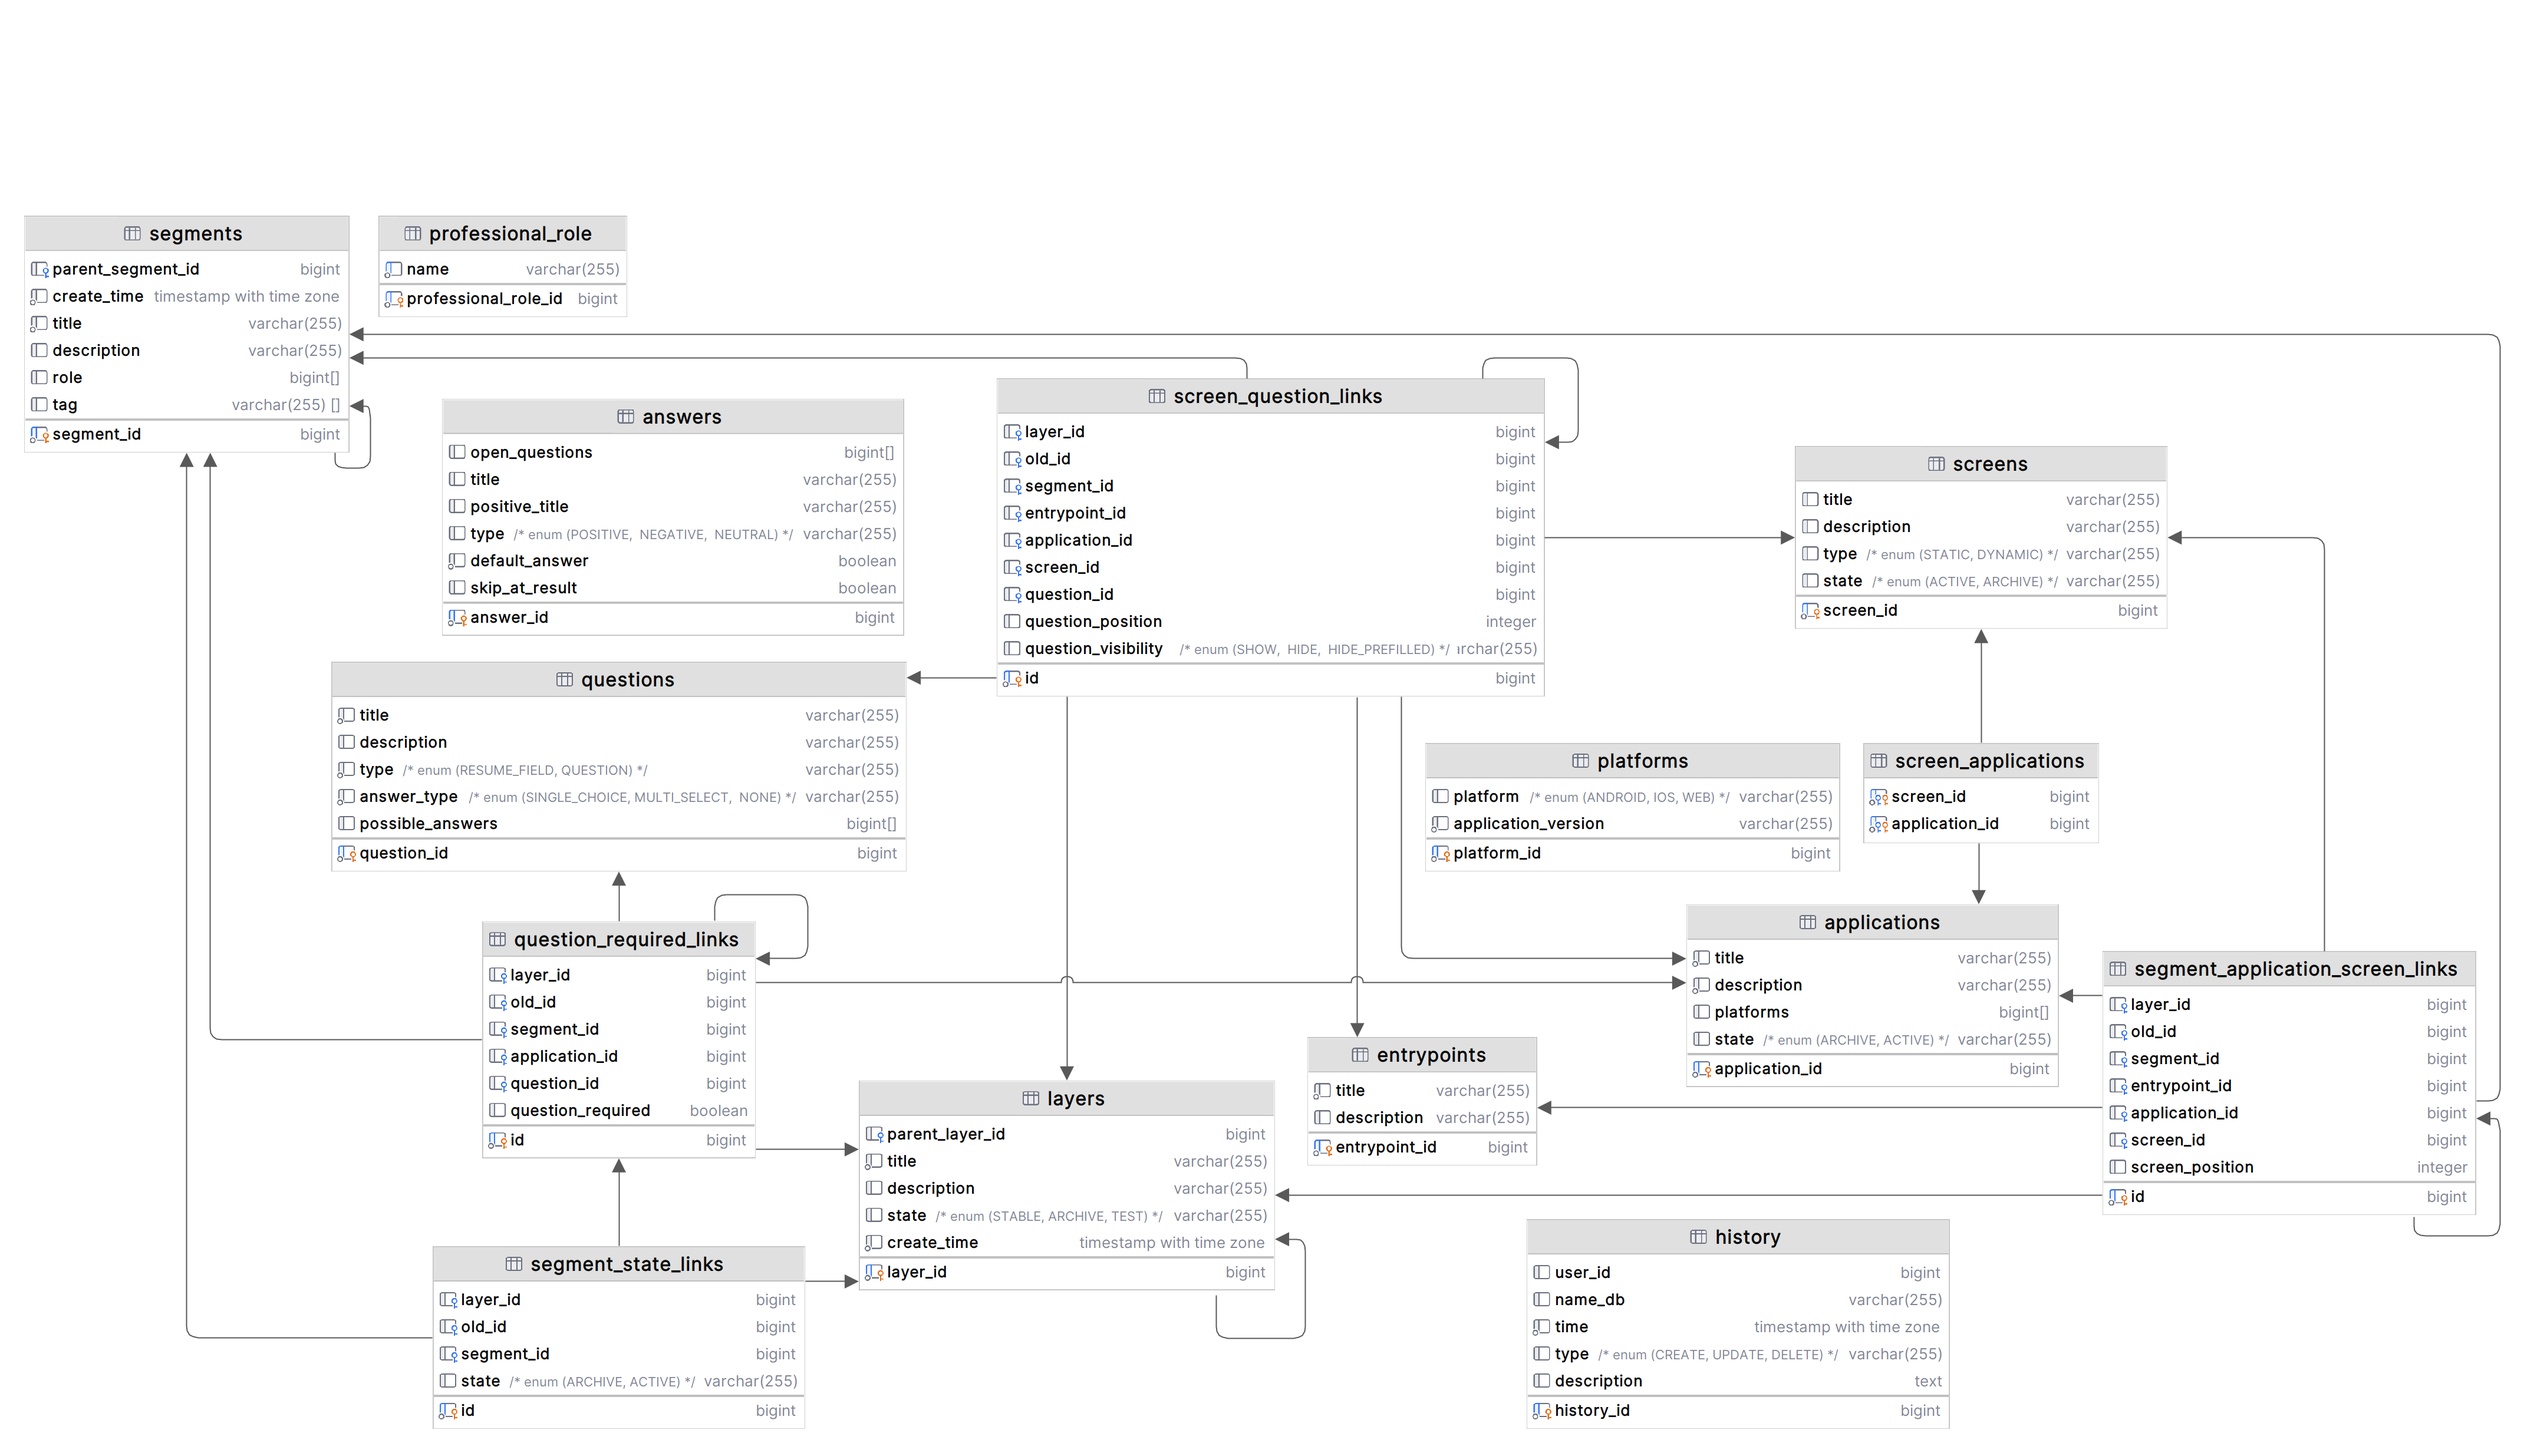
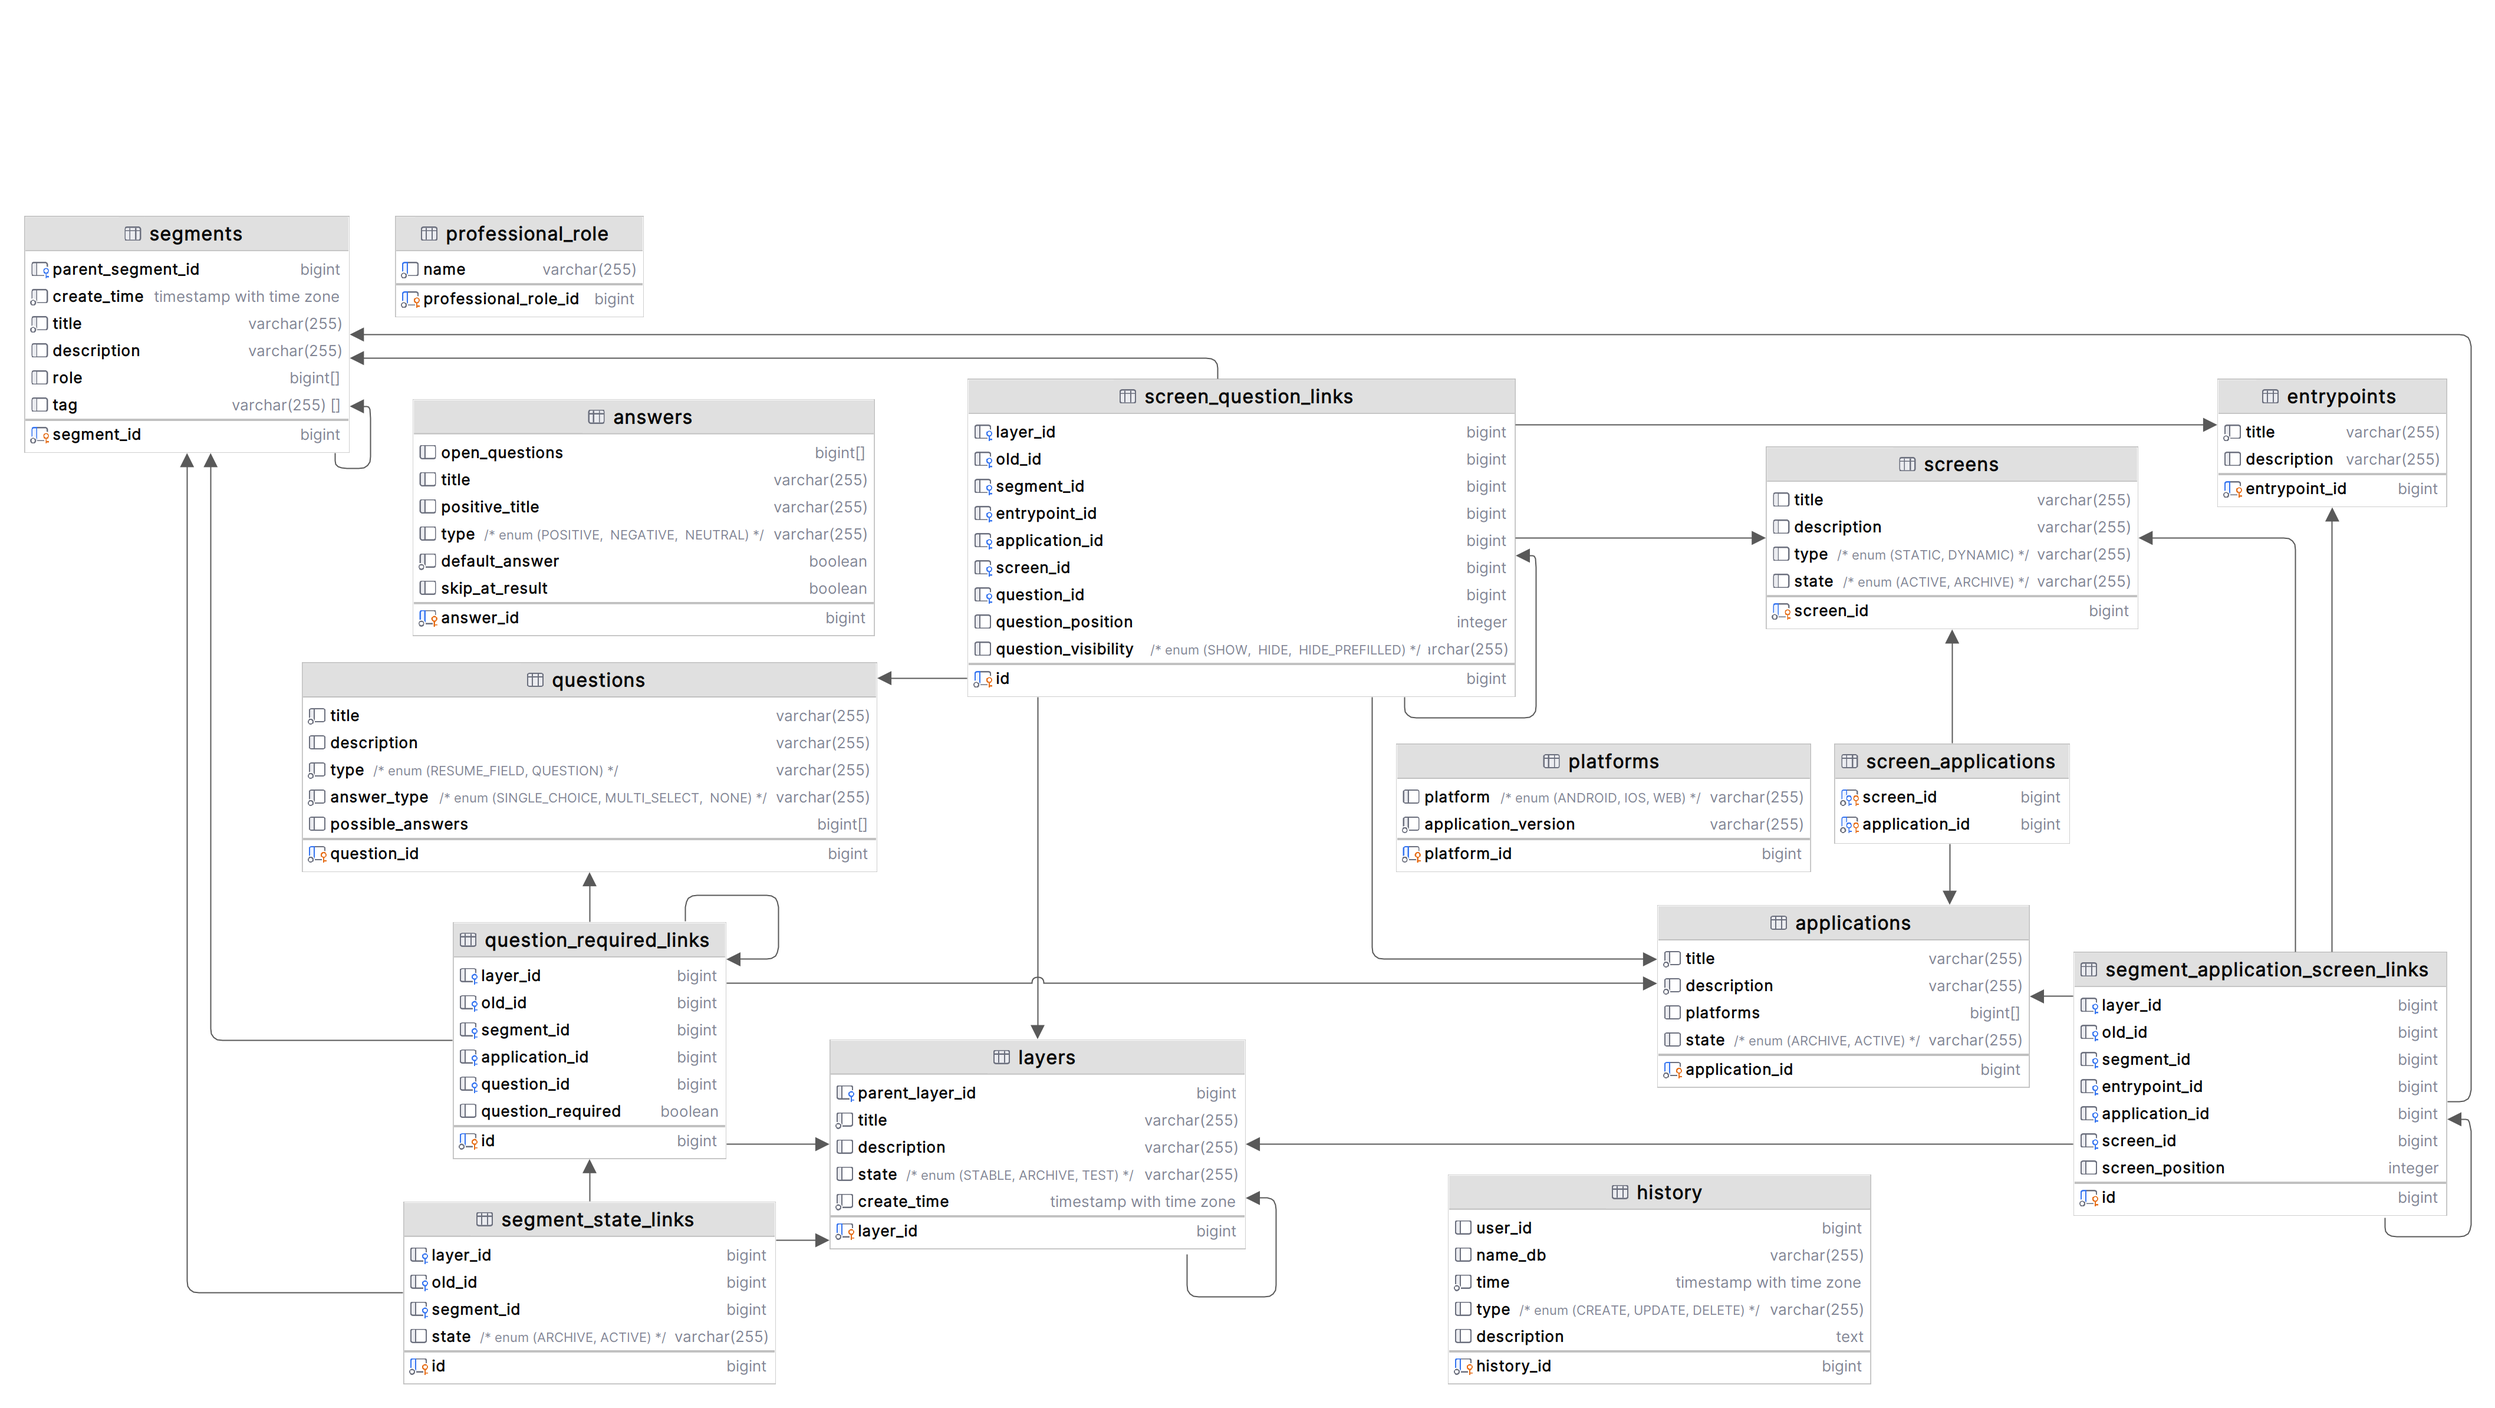
!2: add: entity: roles,segment_state_links. refactoring Segment

Changed region(s): [[0.0, 0.124, 0.9981, 0.9916], [0.6862, 0.2479, 0.9981, 0.4648]]

diff --git a/src/main/java/ru/hhschool/segment/model/entity/SegmentStateLink.java b/src/main/java/ru/hhschool/segment/model/entity/SegmentStateLink.java
@@ -1,0 +1,86 @@
+package ru.hhschool.segment.model.entity;
+
+import javax.persistence.Column;
+import javax.persistence.Entity;
+import javax.persistence.EnumType;
+import javax.persistence.Enumerated;
+import javax.persistence.FetchType;
+import javax.persistence.GeneratedValue;
+import javax.persistence.GenerationType;
+import javax.persistence.Id;
+import javax.persistence.JoinColumn;
+import javax.persistence.ManyToOne;
+import javax.persistence.OneToOne;
+import javax.persistence.Table;
+import ru.hhschool.segment.model.enums.StateType;
+
+@Entity
+@Table(name = "segment_state_links")
+public class SegmentStateLink {
+  @Id
+  @GeneratedValue(strategy = GenerationType.IDENTITY)
+  @Column(name = "id", nullable = false, unique = true)
+  private Long id;
+  @ManyToOne(fetch = FetchType.LAZY)
+  @JoinColumn(name = "layer_id")
+  private Layer layer;
+  @OneToOne(fetch = FetchType.LAZY)
+  private SegmentStateLink oldSegmentStateLink;
+  @ManyToOne(fetch = FetchType.LAZY)
+  @JoinColumn(name = "segment_id")
+  private Segment segment;
+  @Enumerated(EnumType.STRING)
+  @Column(name = "state", nullable = false)
+  private StateType state;
+
+  public SegmentStateLink() {
+  }
+
+  public SegmentStateLink(Long id, Layer layer, SegmentStateLink oldSegmentStateLink, Segment segment, StateType state) {
+    this.id = id;
+    this.layer = layer;
+    this.oldSegmentStateLink = oldSegmentStateLink;
+    this.segment = segment;
+    this.state = state;
+  }
+
+  public Long getId() {
+    return id;
+  }
+
+  public void setId(Long id) {
+    this.id = id;
+  }
+
+  public Layer getLayer() {
+    return layer;
+  }
+
+  public void setLayer(Layer layer) {
+    this.layer = layer;
+  }
+
+  public SegmentStateLink getOldSegmentStateLink() {
+    return oldSegmentStateLink;
+  }
+
+  public void setOldSegmentStateLink(SegmentStateLink oldSegmentStateLink) {
+    this.oldSegmentStateLink = oldSegmentStateLink;
+  }
+
+  public Segment getSegment() {
+    return segment;
+  }
+
+  public void setSegment(Segment segment) {
+    this.segment = segment;
+  }
+
+  public StateType getState() {
+    return state;
+  }
+
+  public void setState(StateType state) {
+    this.state = state;
+  }
+}

diff --git a/src/main/java/ru/hhschool/segment/model/entity/Segment.java b/src/main/java/ru/hhschool/segment/model/entity/Segment.java
@@ -5,8 +5,6 @@ import java.time.LocalDateTime;
 import java.util.List;
 import javax.persistence.Column;
 import javax.persistence.Entity;
-import javax.persistence.EnumType;
-import javax.persistence.Enumerated;
 import javax.persistence.FetchType;
 import javax.persistence.GeneratedValue;
 import javax.persistence.GenerationType;
@@ -15,7 +13,6 @@ import javax.persistence.ManyToOne;
 import javax.persistence.Table;
 import org.hibernate.annotations.Type;
 import org.hibernate.annotations.TypeDef;
-import ru.hhschool.segment.model.enums.StateType;
 
 @Entity
 @TypeDef(name = "list-array", typeClass = ListArrayType.class)
@@ -45,9 +42,6 @@ public class Segment {
       columnDefinition = "text[]"
   )
   private List<String> tagList;
-  @Enumerated(EnumType.STRING)
-  @Column(name = "state")
-  private StateType state;
 
   public Segment() {
   }
@@ -59,8 +53,7 @@ public class Segment {
       String title,
       String description,
       List<Long> roleList,
-      List<String> tagList,
-      StateType state
+      List<String> tagList
   ) {
     this.id = id;
     this.parentSegment = parentSegment;
@@ -69,7 +62,6 @@ public class Segment {
     this.description = description;
     this.roleList = roleList;
     this.tagList = tagList;
-    this.state = state;
   }
 
   public Long getId() {
@@ -126,13 +118,5 @@ public class Segment {
 
   public void setTagList(List<String> tagList) {
     this.tagList = tagList;
-  }
-
-  public StateType getState() {
-    return state;
-  }
-
-  public void setState(StateType state) {
-    this.state = state;
   }
 }

diff --git a/src/main/java/ru/hhschool/segment/model/entity/Role.java b/src/main/java/ru/hhschool/segment/model/entity/Role.java
@@ -1,0 +1,43 @@
+package ru.hhschool.segment.model.entity;
+
+import javax.persistence.Column;
+import javax.persistence.Entity;
+import javax.persistence.GeneratedValue;
+import javax.persistence.GenerationType;
+import javax.persistence.Id;
+import javax.persistence.Table;
+
+@Entity
+@Table(name = "professional_role")
+public class Role {
+  @Id
+  @GeneratedValue(strategy = GenerationType.IDENTITY)
+  @Column(name = "professional_role_id", nullable = false, unique = true)
+  private Long id;
+  @Column(name = "name", nullable = false, unique = true)
+  private String name;
+
+  public Role() {
+  }
+
+  public Role(Long id, String name) {
+    this.id = id;
+    this.name = name;
+  }
+
+  public Long getId() {
+    return id;
+  }
+
+  public void setId(Long id) {
+    this.id = id;
+  }
+
+  public String getName() {
+    return name;
+  }
+
+  public void setName(String name) {
+    this.name = name;
+  }
+}
